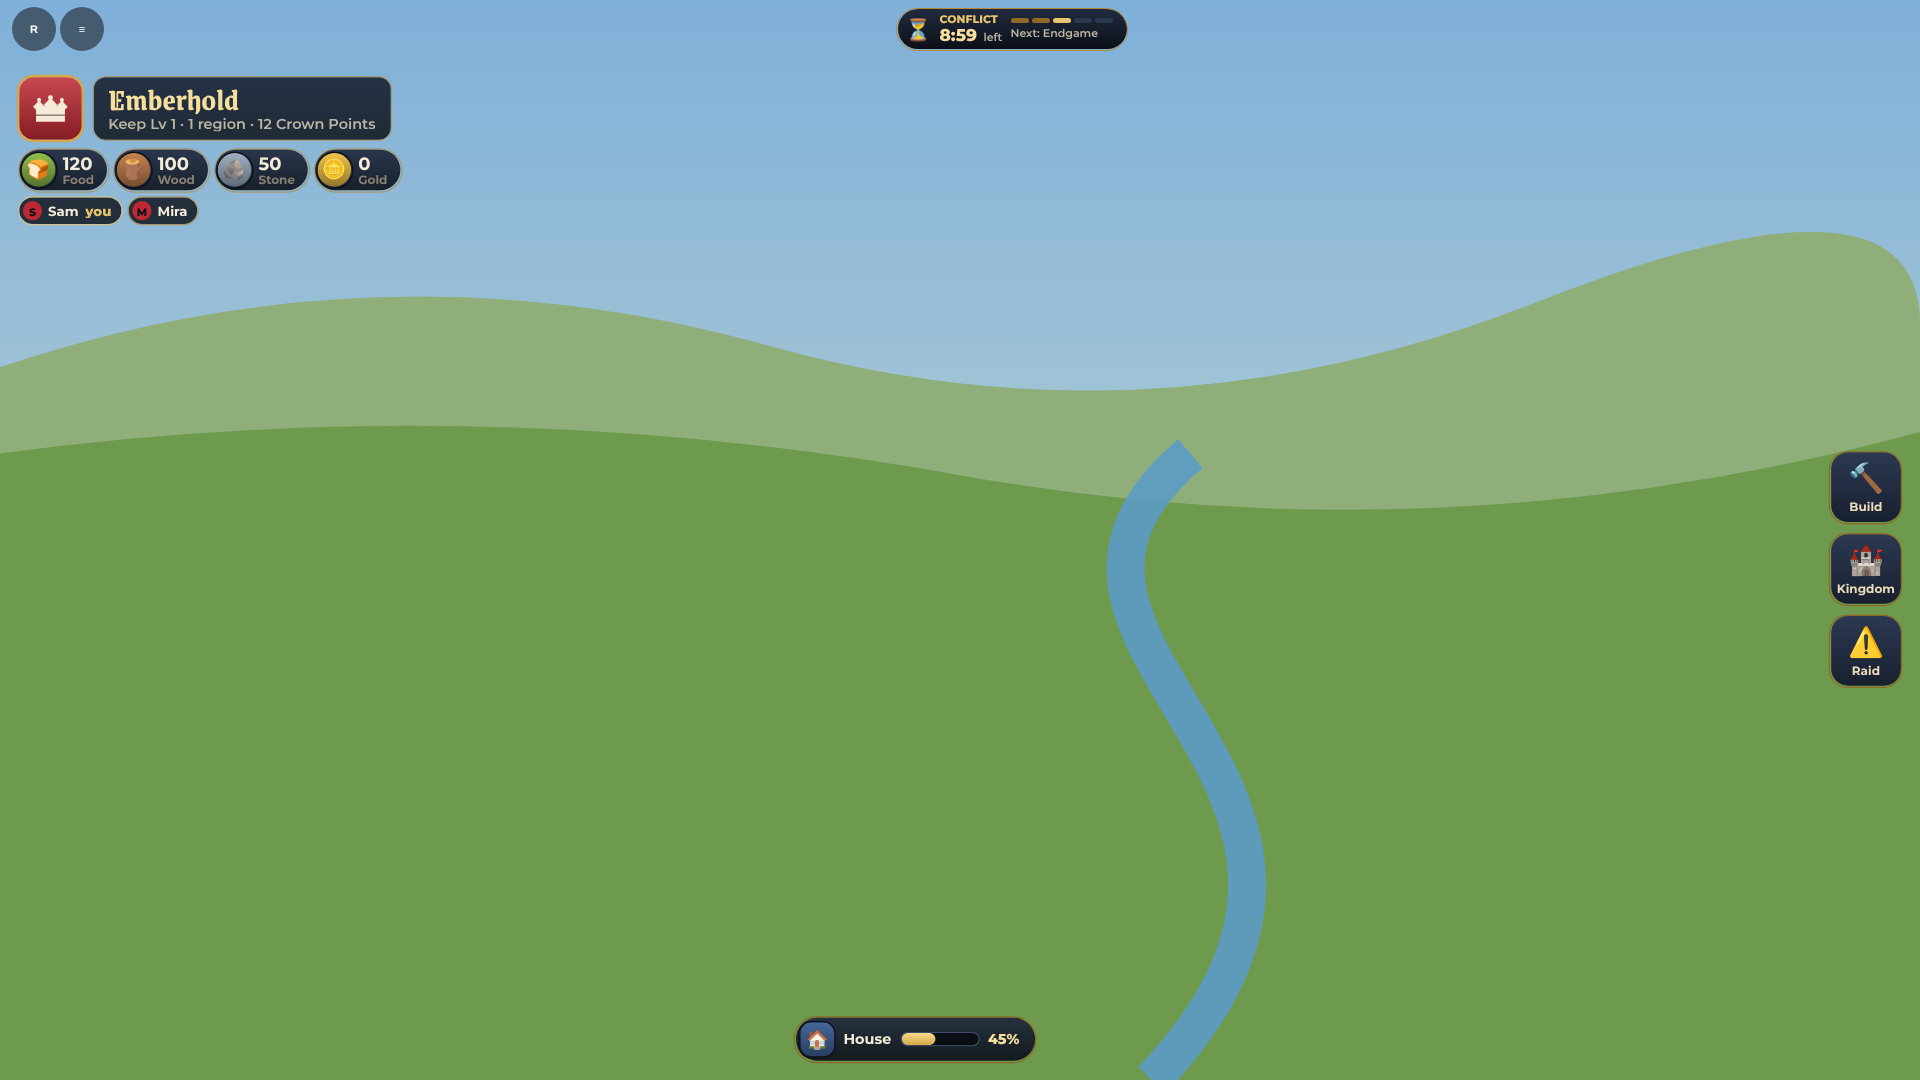
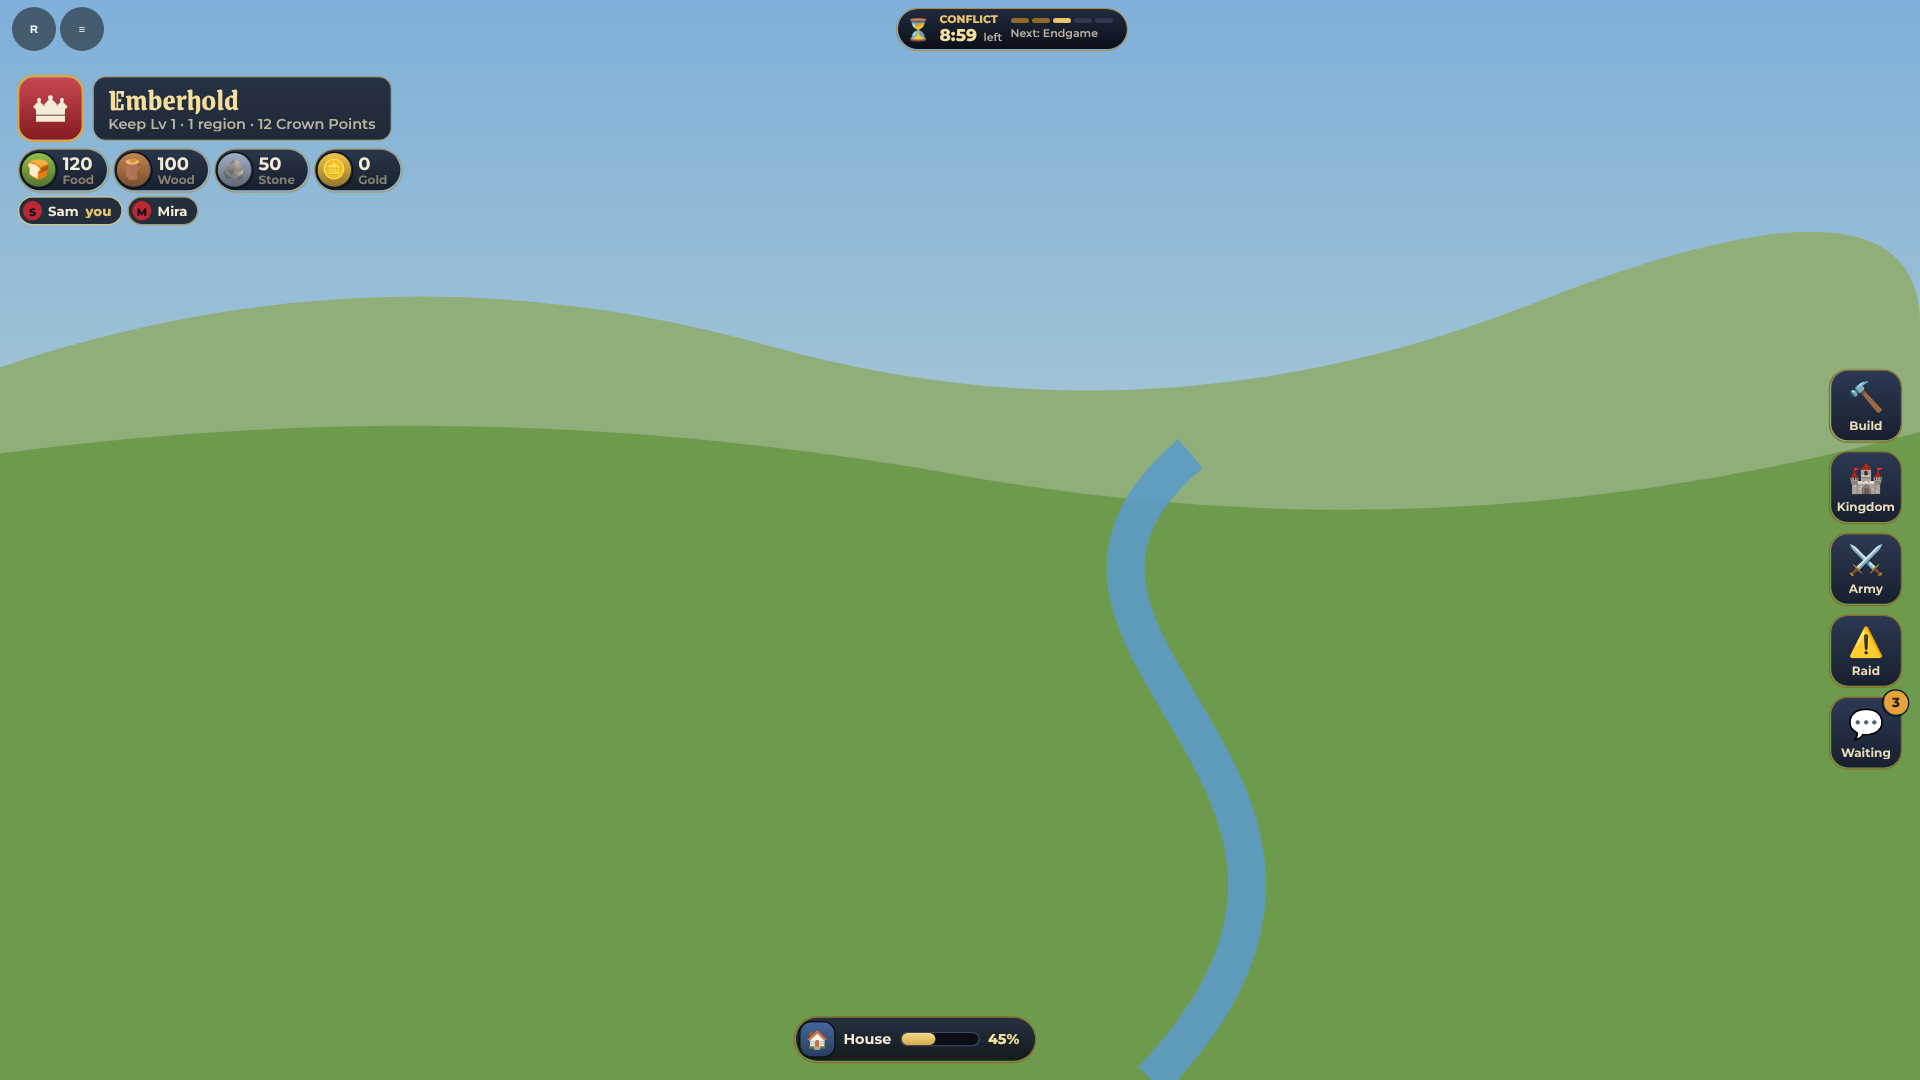
FL-0129: open asks for war on the Rivals rows (FORGE-01's diplomacy.asks); five-button raid rail scene
- DiplomacyModel reads `diplomacy.asks = { { from, fromName, target, expiresAt } }` (FORGE-01, D-054
  PR 2; FORGE-07 L1 on #182: a missed WarAsk toast no longer loses the ask): the rival's row says
  "<name> asks for war · m:ss" (the senior ruler; counted in the Kingdom bubble) or "You asked for
  war · m:ss" (the asker) until it is answered or runs out. RivalsList draws it ("Ask", red) and
  patches the countdown in place.
- hud-raid scene: Build, Kingdom, Army, Raid and Waiting together, the phone rail's worst case
  (FORGE-07 L1 on #182); re-rendered desktop + phone-se, all five fit 667 x 375.
- Doubles: asks in state (ASK_SEC 60). Diplomacy.spec 17/0; mutations FL-0129.py 40/40; scene
  kingdom-rivals-asked (desktop + phone-se, looked at); Studio U21 (6).

Claude-Session: https://claude.ai/code/session_01KW8Qum3zuwV1ZwRGdGiWGe

Changed region(s): [[0.9375, 0.3361, 1.0, 0.4583], [0.9375, 0.6417, 1.0, 0.7333], [0.9375, 0.4889, 1.0, 0.55]]

diff --git a/games/game-001/tests/economy/mutations/FL-0129.py b/games/game-001/tests/economy/mutations/FL-0129.py
@@ -48,7 +48,7 @@ M = [
     ("a code without words", U + "Text.luau", "\tpeace_cooldown = ", "\tpeace_cooldown_x = ",
      "every diplomacy refusal code reads in words", D),
     ("countdowns rebuild the list", RL, "note = r.note ~= nil,", "note = r.note,", "countdowns tick in place", D),
-    ("reason squeezed beside the buttons", RL, 'line(frame, "Reason", reason, 5,', 'line(actions, "Reason", reason, 5,',
+    ("reason squeezed beside the buttons", RL, 'line(frame, "Reason", reason, 6,', 'line(actions, "Reason", reason, 6,',
      "before Conflict the button explains itself", D),
     ("fixed-width buttons on phones", RL, "\tif phone then\n\t\tCreate(\"Frame\", {\n\t\t\tName = \"Slot_\"",
      "\tif false then\n\t\tCreate(\"Frame\", {\n\t\t\tName = \"Slot_\"", "phone 667", D),
@@ -89,6 +89,17 @@ M = [
     ("a failing alert() still shows it", H, "\t\tlocal ok, alert = pcall(war.alert, war)\n\t\traid = ok and alert ~= nil",
      "\t\tlocal ok, alert = pcall(war.alert, war)\n\t\traid = (ok or true) and (alert ~= nil or not ok)",
      "no FORGE-04 controller or a failing one", "RaidPing"),
+    # open asks for war in state (FORGE-01's diplomacy.asks, FORGE-07 L1 on #182)
+    ("open ask never shown", DM, "\t\t\t\tlocal ask = openAsk(diplomacy, kingdom.id, now)", "\t\t\t\tlocal ask = nil",
+     "senior ruler sees an open ask", D),
+    ("my own ask said as someone else's", DM, "row.ask = if mineAsk then", "row.ask = if false then",
+     "an ask to the senior ruler", D),
+    ("the senior's bubble ignores asks", DM, "\t\t\t\t\t\tincoming += 1 -- the senior ruler's to answer",
+     "\t\t\t\t\t\tincoming += 0 -- the senior ruler's to answer", "senior ruler sees an open ask", D),
+    ("expired ask kept", DM, "and a.expiresAt > now then\n\t\t\treturn a", "then\n\t\t\treturn a",
+     "senior ruler sees an open ask", D),
+    ("ask countdown frozen", "games/game-001/src/client/UI/RivalsList.luau", "\t\t\tif ask and r.ask then\n\t\t\t\task.Text = r.ask",
+     "\t\t\tif false then\n\t\t\t\task.Text = r.ask", "senior ruler sees an open ask", D),
     ("Rivals without the remote", H,
      "if not self:hasRemote(KingdomHudController.DIPLOMACY) then\n\t\treturn nil",
      "if false then\n\t\treturn nil", "without the server's diplomacy remote", D),

diff --git a/roblox/studio-tests/ui-economy.md b/roblox/studio-tests/ui-economy.md
@@ -304,7 +304,9 @@ Before #140 the building panel shows no Move: expected.
    (grey) instead of Declare war; Confirm asks "Ask <senior> to declare war on <name>?", says "Asked
    your senior ruler for war on <name>" and sends a notice to the senior ruler; nothing changes until
    they declare; the senior ruler sees "<name> asks for war on <kingdom>". Their Accept peace is off with "<senior> decides". A ruler who joined mid-match sees
-   "New ruler · m:ss" under Declare war and Accept peace for 2 minutes. When the kingdom falls, or in
+   "New ruler · m:ss" under Declare war and Accept peace for 2 minutes. An ask stays on the rival's row ("<name> asks for
+   war · m:ss" for the senior ruler, with a "1" on the Kingdom button; "You asked for war · m:ss" for
+   the asker) until the senior declares or it runs out (60 s). When the kingdom falls, or in
    Results, every button is off ("Your kingdom has fallen" / "The match is over"). An offer that runs
    out takes the Kingdom bubble with it.
 7. Raid (needs FORGE-04's #183): when enemies enter our lands ("Enemies in your lands!"), a **Raid** button
